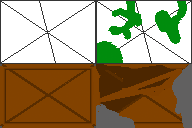
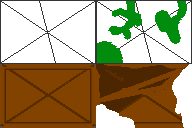
[ UPDATE ] - added sea rescue minigame

Changed region(s): [[0.875, 0.5, 1.0, 1.0], [0.5, 0.8125, 0.7188, 1.0]]

diff --git a/src/sections/chapters/game/PixiStage/index.jsx b/src/sections/chapters/game/PixiStage/index.jsx
@@ -133,6 +133,7 @@ const PixiStage = ({
   const hbEnabledRef = useRef(healthBarEnabled !== false);
   const oxyEnabledRef = useRef(oxygenBarEnabled !== false);
   const lavaEnabledRef = useRef(lavaBarEnabled !== false);
+  const driftSettingsRef = useRef({ enabled: true, amplitude: 5, speed: 0.002 });
   const overlayLayerRef = useRef(null);
   const underwaterRef = useRef({ g: null, time: 0, targetAlpha: 0, currentAlpha: 0 });
   const waterFramesRef = useRef(null);
@@ -184,6 +185,17 @@ const PixiStage = ({
   useEffect(() => { bgColorRef.current = backgroundColor; }, [backgroundColor]);
   useEffect(() => { tileMapDataRef.current = tileMapData; }, [tileMapData]);
   useEffect(() => { registryItemsRef.current = registryItems; }, [registryItems]);
+
+  useEffect(() => {
+    if (mapType === 'sea_rescue') {
+      fetch('/assets/json/mini_spill/sea_rescue/sea_rescue_settings.json')
+        .then(r => r.json())
+        .then(data => {
+          if (data.drift) driftSettingsRef.current = data.drift;
+        })
+        .catch(err => console.warn('Failed to load drift settings:', err));
+    }
+  }, [mapType]);
 
   // Sync weather props to ref for systems to read live
   useEffect(() => {
@@ -610,6 +622,45 @@ const PixiStage = ({
                 drawSeaRescueTrajectory(drawCtx, trajectoryLayerRef.current);
             }
           }
+        }
+
+        // Sea Rescue Drift & Bubbles
+        if (mapTypeRef.current === 'sea_rescue') {
+          const time = app.ticker.lastTime;
+          const driftY = driftSettingsRef.current.enabled 
+            ? Math.sin(time * driftSettingsRef.current.speed) * driftSettingsRef.current.amplitude 
+            : 0;
+          
+          const now = Date.now();
+          const updateSeaRescueVisuals = (container) => {
+            if (!container) return;
+            container.children.forEach(child => {
+              // Drift (Ship & Triggers)
+              if (child.isSeaRescueShipPart) {
+                child.y = child.baseY + driftY;
+              }
+              // Bubbles (Boxes)
+              if (child.isSeaRescueBox && child.bubbles?.enabled && bubbleFxRef.current) {
+                if (!child.lastBubbleTime || now - child.lastBubbleTime > (child.bubbles.intervalMs || 1000)) {
+                  const w = (child.boxWidth || 1) * tileSize;
+                  const h = (child.boxHeight || 1) * tileSize;
+                  const bx = child.x + Math.random() * w;
+                  const by = child.y + Math.random() * h;
+                  
+                  bubbleFxRef.current.trigger({
+                    x: bx,
+                    y: by,
+                    color: child.bubbles.color ? parseInt(child.bubbles.color.replace('#', '0x'), 16) : 0xc9ecff,
+                    rise: 0.02 + Math.random() * 0.02,
+                    life: 1500 + Math.random() * 1000
+                  });
+                  child.lastBubbleTime = now;
+                }
+              }
+            });
+          };
+          updateSeaRescueVisuals(objBehindRef.current);
+          updateSeaRescueVisuals(objFrontRef.current);
         }
 
         // Weather

diff --git a/src/engine/gameplay/seaRescue.js b/src/engine/gameplay/seaRescue.js
@@ -61,8 +61,9 @@ export function updateSeaRescue(ctx, deltaMs) {
       let index = gy * mapWidth + gx;
       let objId = objectData[index];
       
-      // Ja tiešā flīzē nekā nav, meklējam lielus objektus (meta data), kas varētu pārklāt šo flīzi
+      // Ja tiešā flīzē nekā nav, meklējam lielus objektus (meta data vai root flīzes), kas varētu pārklāt šo flīzi
       if (!objId) {
+        // 1. Meklējam metadata (ja tāda ir)
         for (const [idxStr, meta] of Object.entries(objectMetadata)) {
           const idx = parseInt(idxStr, 10);
           const w = meta.width || 1;
@@ -75,6 +76,30 @@ export function updateSeaRescue(ctx, deltaMs) {
             objId = objectData[idx];
             index = idx;
             break;
+          }
+        }
+
+        // 2. Ja joprojām nekā nav, meklējam root flīzes apkārtnē (jo kastes ir 3x2)
+        if (!objId) {
+          for (let dy = 0; dy <= 2; dy++) {
+            for (let dx = 0; dx <= 3; dx++) {
+              const rx = gx - dx;
+              const ry = gy - dy;
+              if (rx < 0 || ry < 0) continue;
+              const rIdx = ry * mapWidth + rx;
+              const rId = objectData[rIdx];
+              if (rId && rId.startsWith('minispill_sea_rescue_box')) {
+                const def = findItemById(rId);
+                const w = def?.width || 3;
+                const h = def?.height || 2;
+                if (gx >= rx && gx < rx + w && gy >= ry && gy < ry + h) {
+                  objId = rId;
+                  index = rIdx;
+                  break;
+                }
+              }
+            }
+            if (objId) break;
           }
         }
       }
@@ -114,6 +139,12 @@ export function updateSeaRescue(ctx, deltaMs) {
       // Spawn a special projectile that looks like the box
       const id = projectileIdRef.current++;
       
+      const def = findItemById(objId);
+      const meta = objectMetadata[index] || {};
+      const w = (meta.width || def?.width || 1) * TILE_SIZE;
+      const h = (meta.height || def?.height || 1) * TILE_SIZE;
+      const frameIndex = meta.frameIndex !== undefined ? meta.frameIndex : (def?.spriteSheet?.frameIndex || 0);
+
       const proj = {
         id,
         ownerId: 'player',
@@ -121,11 +152,12 @@ export function updateSeaRescue(ctx, deltaMs) {
         y: startY,
         vx,
         vy,
-        w: TILE_SIZE,
-        h: TILE_SIZE,
+        w: w,
+        h: h,
         life: 5000,
         defId: objId,
         isSeaRescueBox: true,
+        frameIndex: frameIndex,
         gravity: G, // px/s^2
         useSimplePhysics: true // Flag for updateProjectiles
       };

diff --git a/src/sections/chapters/game/PixiStage/projectileManager.js b/src/sections/chapters/game/PixiStage/projectileManager.js
@@ -1,4 +1,4 @@
-import { Sprite, AnimatedSprite, Texture } from 'pixi.js';
+import { Sprite, AnimatedSprite, Texture, Rectangle } from 'pixi.js';
 import { getTexture, msToSpeed, getRegItem } from './helpers';
 
 // Sync and update projectiles: create missing sprites, remove stale ones, update positions
@@ -19,14 +19,32 @@ export const syncProjectiles = (projectilesLayer, projectileSpritesMap, projecti
     if (!spr) {
       // Create new sprite
       const def = getRegItem(registryItems, p.defId);
-      if (def && Array.isArray(def.textures) && def.textures.length > 1) {
-        const frames = def.textures.map((u) => getTexture(u)).filter(Boolean);
-        if (frames.length > 0) {
-          spr = new AnimatedSprite(frames);
-          spr.animationSpeed = msToSpeed(def.animationSpeed);
-          spr.play();
+      if (def) {
+        if (Array.isArray(def.textures) && def.textures.length > 1) {
+          const frames = def.textures.map((u) => getTexture(u)).filter(Boolean);
+          if (frames.length > 0) {
+            spr = new AnimatedSprite(frames);
+            spr.animationSpeed = msToSpeed(def.animationSpeed);
+            spr.play();
+          }
+        } else if (def.spriteSheet && def.spriteSheet.enabled) {
+          const totalSprites = def.spriteSheet.totalSprites || 1;
+          const columns = def.spriteSheet.columns || totalSprites;
+          const frameIndex = p.frameIndex !== undefined ? p.frameIndex : (def.spriteSheet.frameIndex || 0);
+          
+          const baseTexture = getTexture(def.texture);
+          const source = baseTexture?.source;
+          if (source && source.width > 1) {
+            const frameWidth = source.width / columns;
+            const frameHeight = source.height / Math.ceil(totalSprites / columns);
+            const col = frameIndex % columns;
+            const row = Math.floor(frameIndex / columns);
+            const rect = new Rectangle(col * frameWidth, row * frameHeight, frameWidth, frameHeight);
+            spr = new Sprite(new Texture({ source: source, frame: rect }));
+          }
         }
       }
+      
       if (!spr) {
         const tex = getTexture(getRegItem(registryItems, p.defId)?.texture) || Texture.WHITE;
         spr = new Sprite(tex);

diff --git a/src/Pixi/effects/liquids/BubbleFX.js b/src/Pixi/effects/liquids/BubbleFX.js
@@ -17,7 +17,7 @@ export default class BubbleFX {
     this.bubbles = [];
   }
 
-  trigger({ x = 0, y = 0, size = 2, rise = 0.03, life = 1200, drift = 0.02 } = {}) {
+  trigger({ x = 0, y = 0, size = 2, rise = 0.03, life = 1200, drift = 0.02, color = 0xc9ecff } = {}) {
     if (this.bubbles.length >= this.maxBubbles) return;
     const g = new Graphics();
     g.x = 0;
@@ -31,7 +31,8 @@ export default class BubbleFX {
       rise,
       drift,
       life: 0,
-      max: life
+      max: life,
+      color
     });
   }
 
@@ -48,7 +49,7 @@ export default class BubbleFX {
       const g = b.g;
       g.clear();
       g.circle(b.x, b.y, size);
-      g.stroke({ width: 1, color: 0xc9ecff, alpha: Math.max(0, alpha) });
+      g.stroke({ width: 1, color: b.color || 0xc9ecff, alpha: Math.max(0, alpha) });
       if (b.life >= b.max) {
         try { g.parent && g.parent.removeChild(g); } catch {}
         try { g.destroy(); } catch {}

diff --git a/src/sections/chapters/game/PixiStage/layerBuilder.js b/src/sections/chapters/game/PixiStage/layerBuilder.js
@@ -358,6 +358,18 @@ const renderMapContent = (refs, options, offsetX, offsetY, secretOverlays, targe
     container.y = y + anchorOffsetY;
     container.isRoomContent = mapType === 'room';
     
+    if (id === 'minispill_sea_rescue_ship' || id === 'minispill_sea_rescue_trigger') {
+      container.isSeaRescueShipPart = true;
+      container.baseY = container.y;
+    }
+    
+    if (id.startsWith('minispill_sea_rescue_box')) {
+      container.isSeaRescueBox = true;
+      container.bubbles = def.bubbles;
+      container.boxWidth = def.width || 1;
+      container.boxHeight = def.height || 1;
+    }
+    
     const isWeatherTrigger = def.type === 'weather_trigger';
     const isMessageTrigger = def.type === 'message_trigger';
     const isWolfSecret = def.type === 'wolf_secret';
